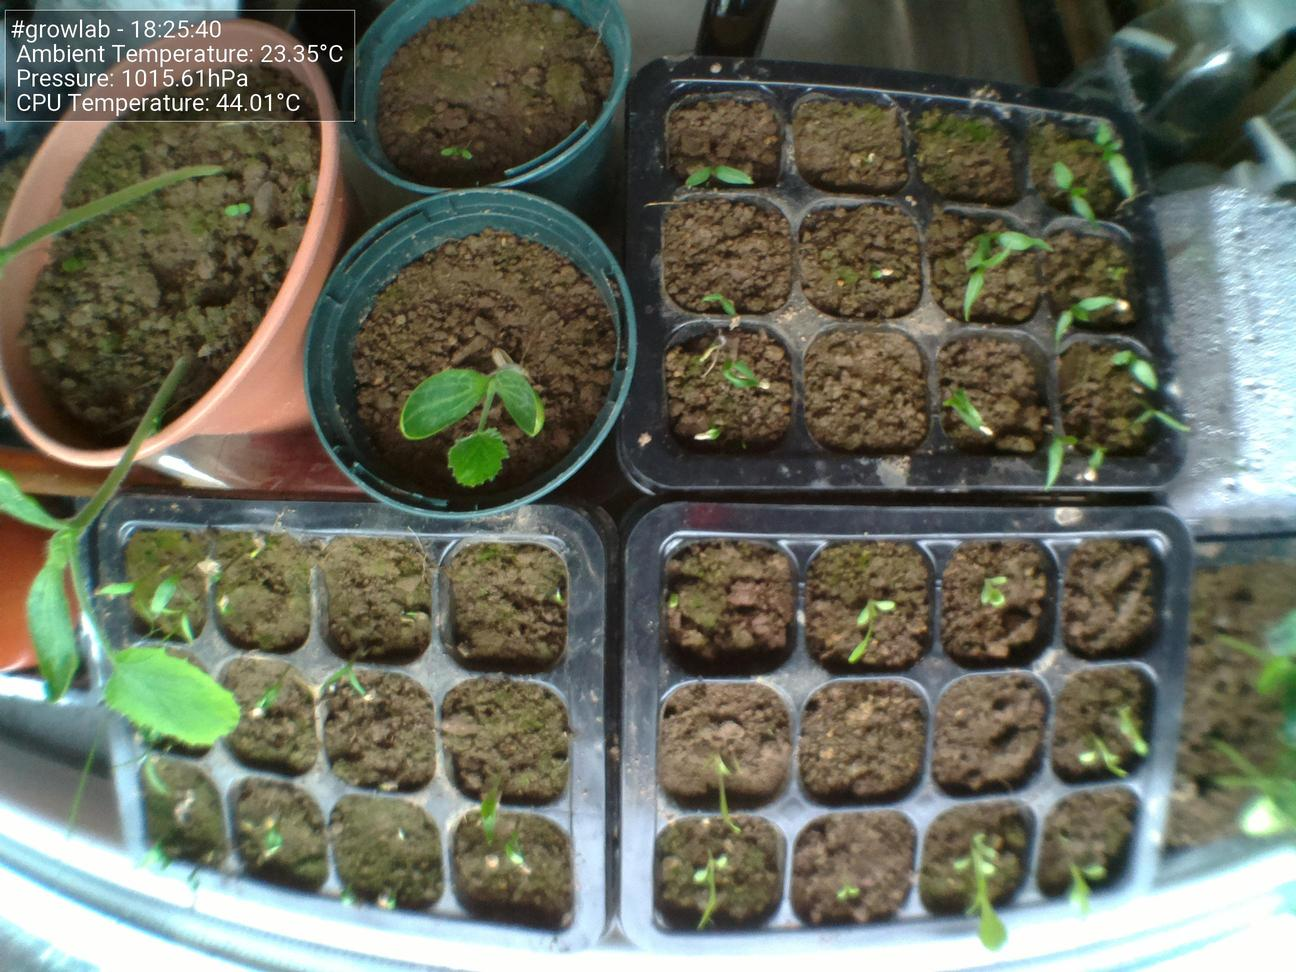
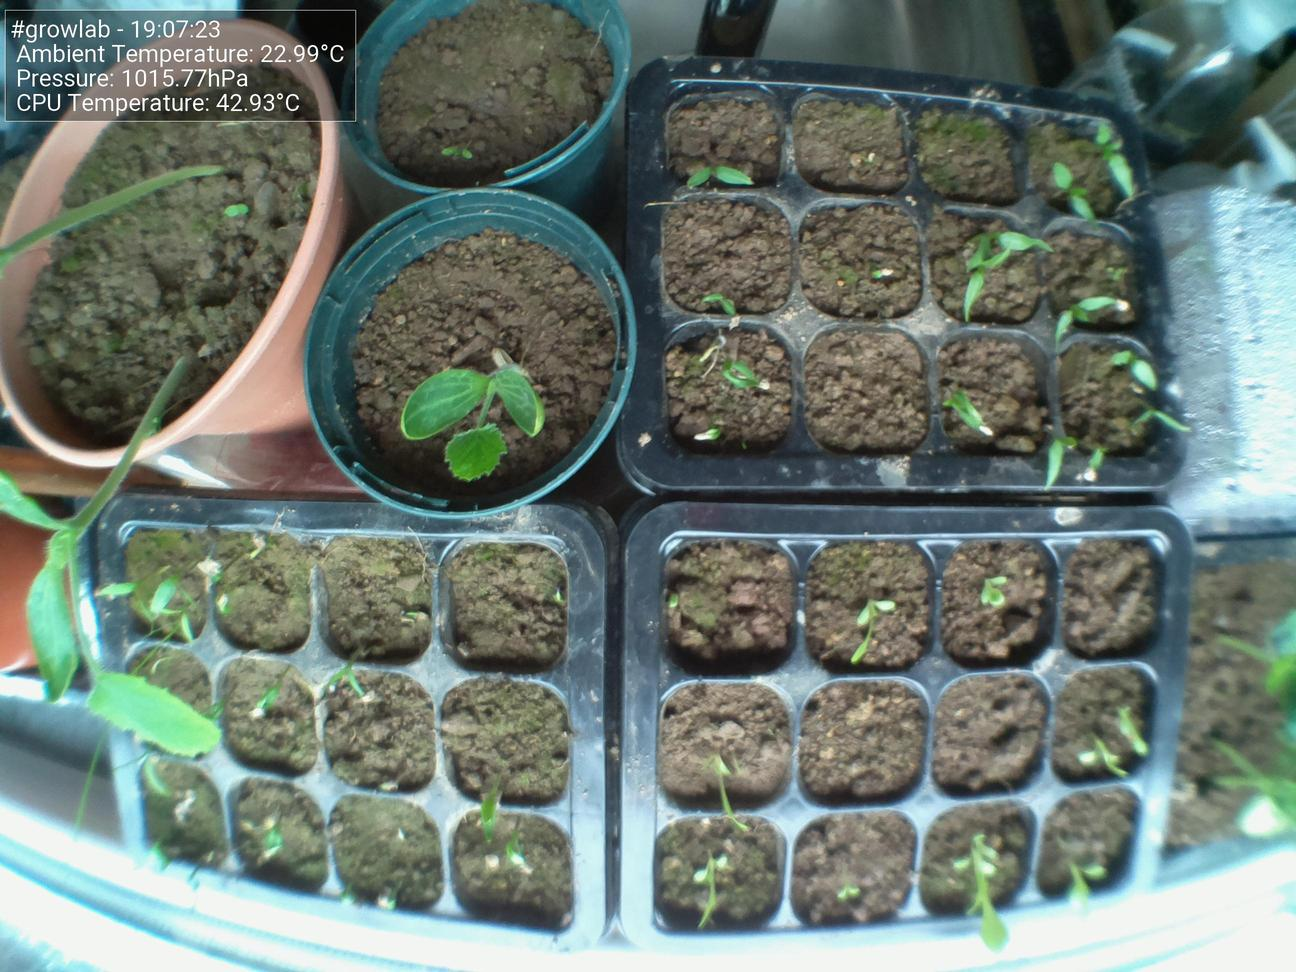
Update images at Fri  6 May 19:07:28 BST 2022

diff --git a/docs/index.html b/docs/index.html
@@ -44,15 +44,15 @@
                         <tbody>
                             <tr>
                                 <td>Time</td>
-                                <td>18:25:40</td>
+                                <td>19:07:23</td>
                             </tr>
                             <tr>
                                 <td>CPU Temp</td>
-                                <td>44.01°C</td>
+                                <td>42.93°C</td>
                             </tr>
                             <tr>
                                 <td>Ambient Temperature</td>
-                                <td>23.35°C</td>
+                                <td>22.99°C</td>
                             </tr>
                             <tr>
                                 <td>Humidity</td>
@@ -60,7 +60,7 @@
                             </tr>
                             <tr>
                                 <td>Pressure</td>
-                                <td>1015.61hPa</td>
+                                <td>1015.77hPa</td>
                             </tr>
                         </tbody>
                     </table>
@@ -68,7 +68,7 @@
 
                 <h5>Latest image</h5>
                 <div style="width: 85%;">
-                            <img class="figure-img img-fluid rounded" src="./preview.jpg?uid=1651857945.3329802">
+                            <img class="figure-img img-fluid rounded" src="./preview.jpg?uid=1651860448.3258905">
                 </div>
             </div>
         </div>
